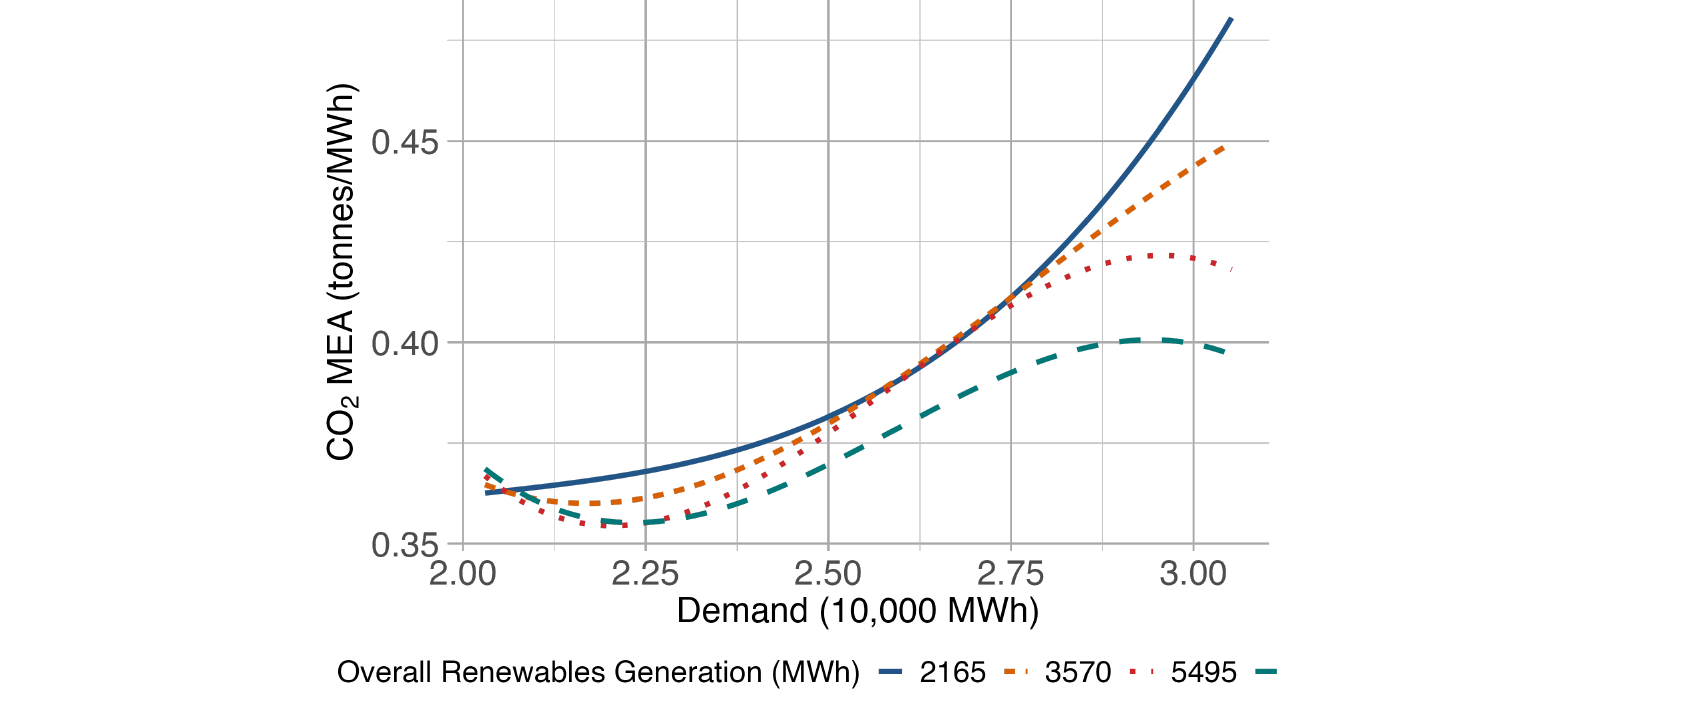
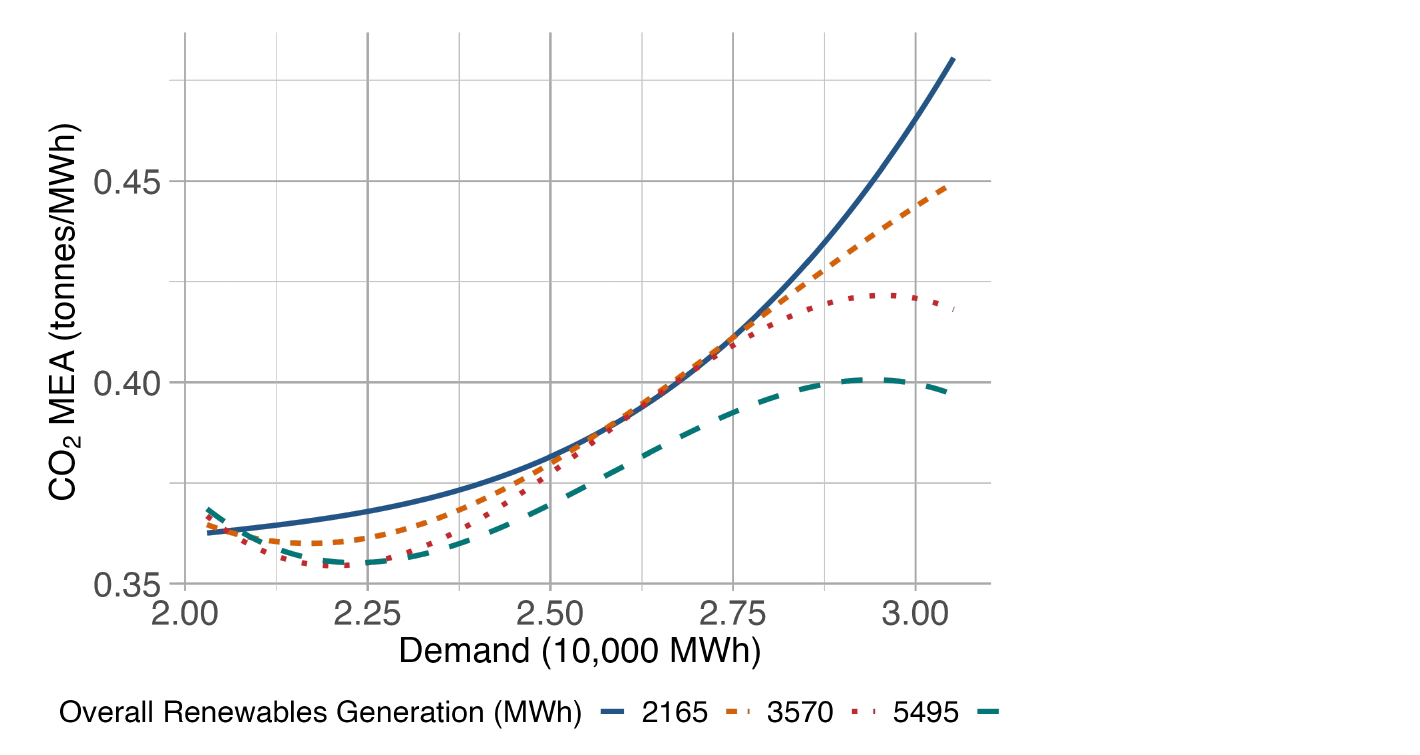
Remove border on feature hero images; fix cropped marginal-emissions chart
The marginal-emissions cover was cropped too tight against the top of
the chart, clipping the topmost gridline and the peak of the curve.
Re-cropped from the source PDF with proper margin so the full grid
and all four series are visible.

diff --git a/src/styles/global.css b/src/styles/global.css
@@ -670,7 +670,7 @@ em { font-style: italic; }
 .feature-github:hover { color: var(--blue); border-color: var(--blue); }
 
 .feature-fig { margin: 0 0 32px; }
-.feature-fig img { display: block; width: 100%; border: 1px solid var(--rule); border-radius: 6px; }
+.feature-fig img { display: block; width: 100%; border-radius: 6px; }
 .feature-fig__ph { aspect-ratio: 16 / 9; border: 1px solid var(--rule); border-radius: 6px; background: var(--paper-2); display: flex; align-items: center; justify-content: center; }
 .feature-fig__ph span { font-style: italic; font-size: 13px; color: var(--ink-faint); }
 .feature-fig figcaption { margin-top: 10px; font-style: italic; font-size: 13.5px; line-height: 1.5; color: var(--ink-faint); }